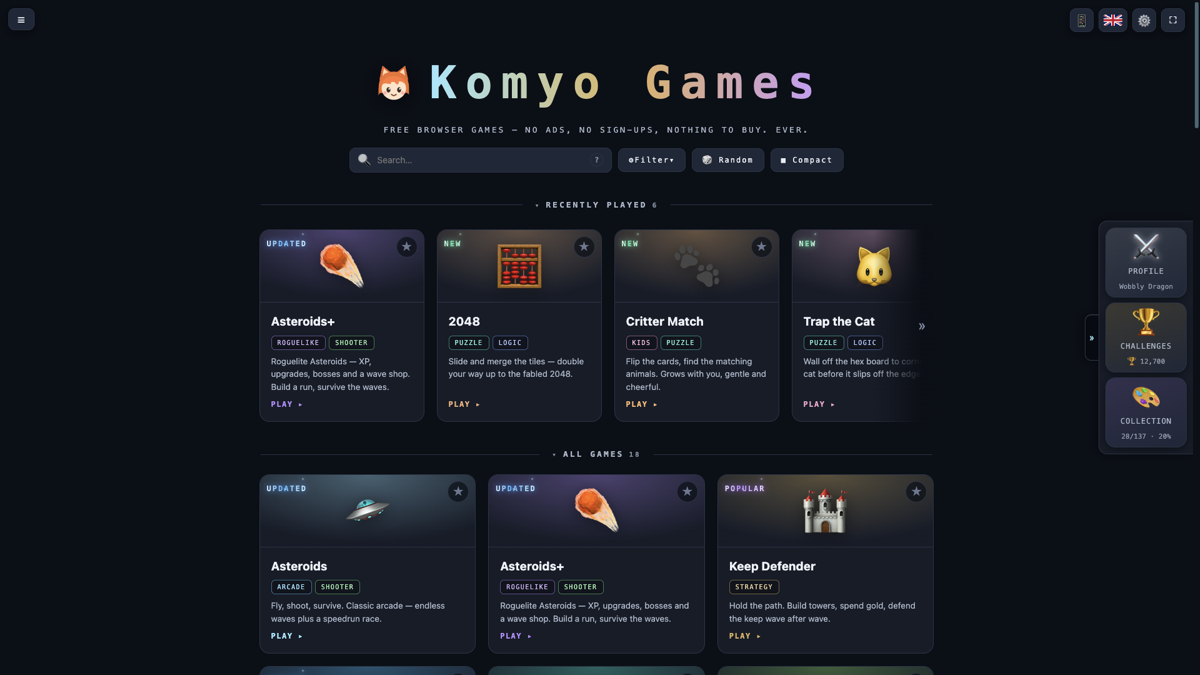
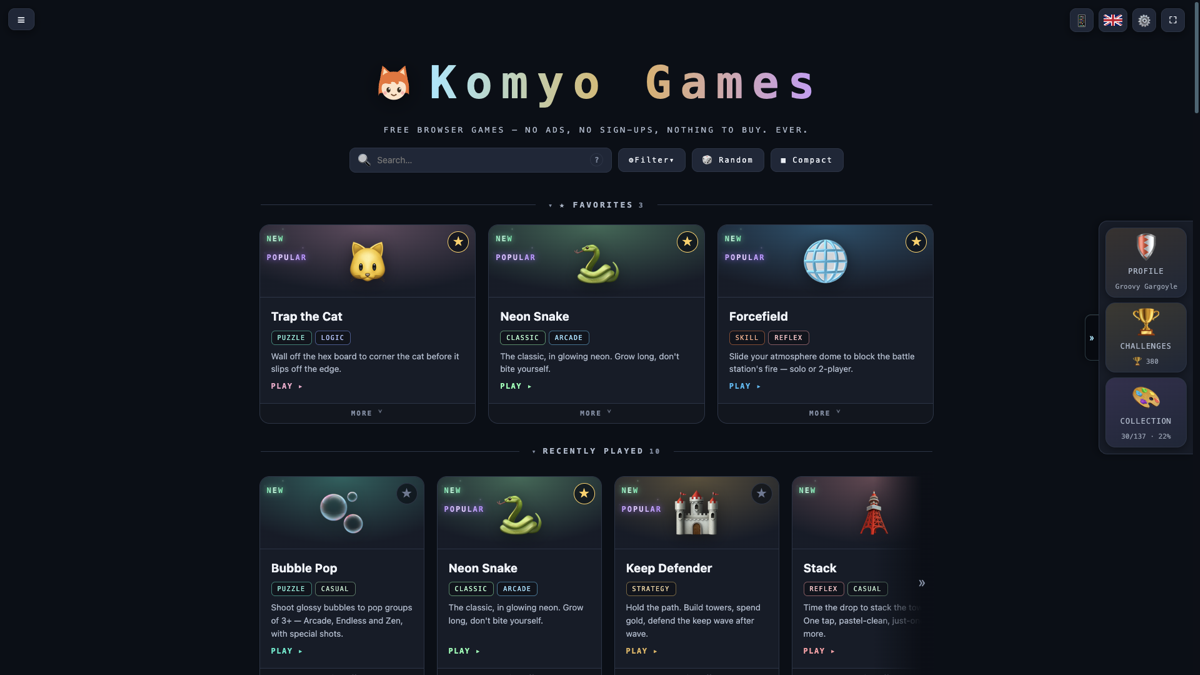
chore(seo): refresh og-image.png (new catalogue shot) + bump ?v=7

diff --git a/index.html b/index.html
@@ -23,14 +23,14 @@ if (location.protocol !== 'file:') { var m = document.createElement('link'); m.r
 <meta property="og:title" content="Komyo — a free browser arcade">
 <meta property="og:description" content="A hand-picked arcade of polished free browser games — unlock cosmetics and titles, chase daily challenges. Works offline, no accounts, no ads.">
 <meta property="og:url" content="https://komyo.online/">
-<meta property="og:image" content="https://komyo.online/og-image.png?v=6">
+<meta property="og:image" content="https://komyo.online/og-image.png?v=7">
 <meta property="og:image:width" content="1200">
 <meta property="og:image:height" content="675">
 <meta property="og:image:alt" content="Komyo — a free browser arcade">
 <meta name="twitter:card" content="summary_large_image">
 <meta name="twitter:title" content="Komyo — a free browser arcade">
 <meta name="twitter:description" content="A hand-picked arcade of polished free browser games. Works offline, no accounts, no ads — fun for all ages.">
-<meta name="twitter:image" content="https://komyo.online/og-image.png?v=6">
+<meta name="twitter:image" content="https://komyo.online/og-image.png?v=7">
 <script type="application/ld+json">{"@context":"https://schema.org","@graph":[
   {"@type":"WebSite","name":"Komyo Games","url":"https://komyo.online/","description":"A hand-picked arcade of polished free browser games — unlock cosmetics and titles, chase daily challenges. Works offline, no accounts, no ads.","inLanguage":["en","pl","es","pt","fr","it","cs","uk"]},
   {"@type":"ItemList","name":"All games","itemListElement":[
